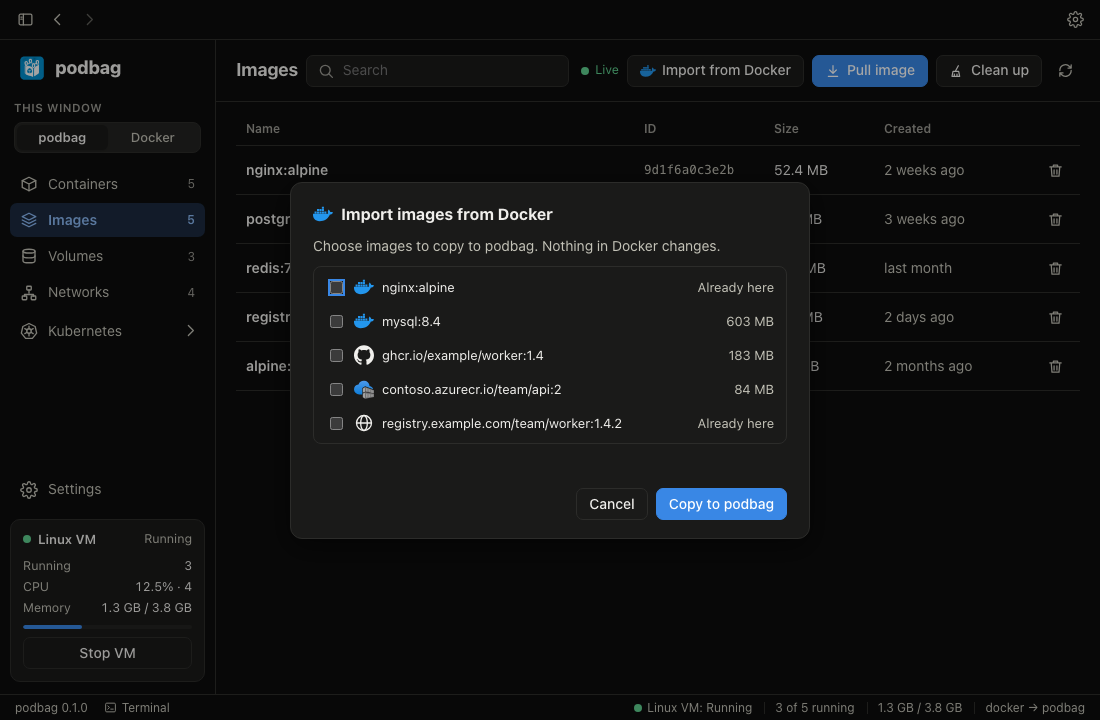
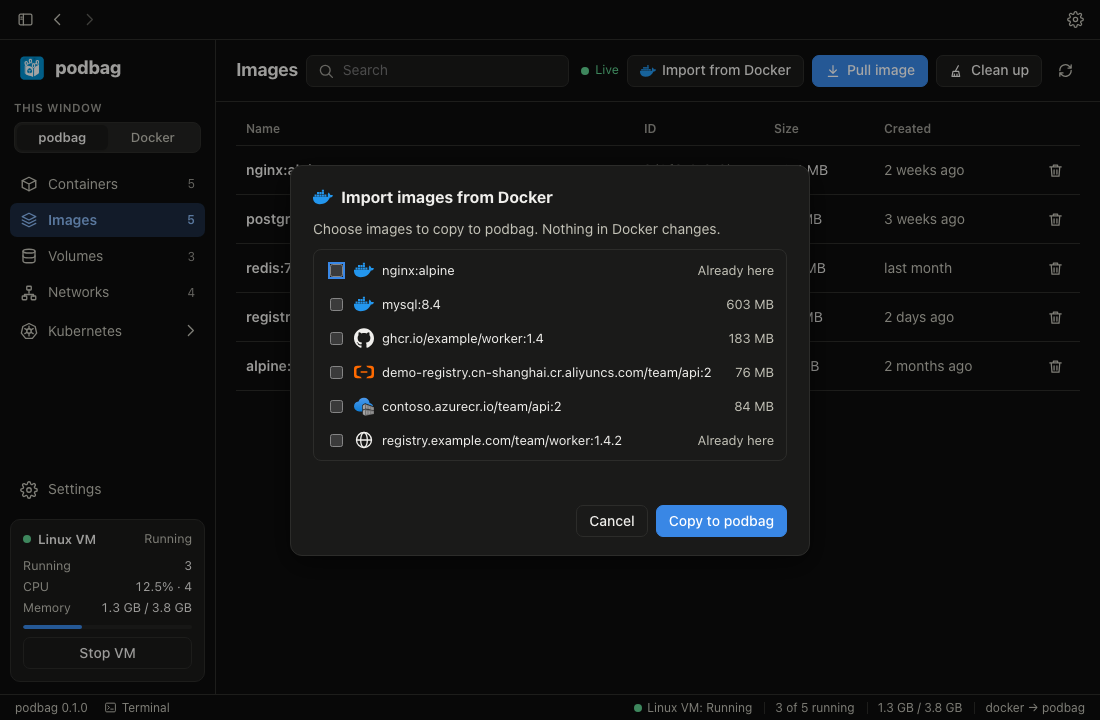
feat: recognize Alibaba ACR endpoints and search aliases

diff --git a/desktop/preview/mock.js b/desktop/preview/mock.js
@@ -122,7 +122,7 @@
     { id: "ocir", label: "Oracle Cloud Infrastructure Registry", host: "", hostExample: "iad.ocir.io", needsHost: true },
     { id: "oracle", label: "Oracle Container Registry", host: "container-registry.oracle.com", hostExample: "container-registry.oracle.com", needsHost: false },
     { id: "ibm", label: "IBM Cloud Container Registry", host: "", hostExample: "us.icr.io", needsHost: true },
-    { id: "alibaba", label: "Alibaba Cloud Container Registry", host: "", hostExample: "registry.cn-hangzhou.aliyuncs.com", needsHost: true },
+    { id: "alibaba", label: "Alibaba Cloud Container Registry", host: "", hostExample: "crpi-example.cn-hangzhou.personal.cr.aliyuncs.com", needsHost: true },
     { id: "tencent", label: "Tencent Container Registry", host: "", hostExample: "example.tencentcloudcr.com", needsHost: true },
     { id: "huawei", label: "Huawei Cloud SWR", host: "", hostExample: "swr.cn-north-4.myhuaweicloud.com", needsHost: true },
     { id: "scaleway", label: "Scaleway Container Registry", host: "", hostExample: "rg.fr-par.scw.cloud", needsHost: true },
@@ -191,6 +191,7 @@
       { name: "nginx:alpine", size: 52_400_000, registry: "dockerhub" },
       { name: "mysql:8.4", size: 603_000_000, registry: "dockerhub" },
       { name: "ghcr.io/example/worker:1.4", size: 183_000_000, registry: "github" },
+      { name: "demo-registry.cn-shanghai.cr.aliyuncs.com/team/api:2", size: 76_000_000, registry: "alibaba" },
       { name: "contoso.azurecr.io/team/api:2", size: 84_000_000, registry: "acr" },
       { name: "registry.example.com/team/worker:1.4.2", size: 183_000_000, registry: "custom" },
     ],
@@ -228,6 +229,13 @@
       confirm: () => app.remove("containers", 0),
       pull: async () => { app.go("images"); await app.pull(); app.searchFor("nginx"); await new Promise((r) => setTimeout(r, 400)); },
       "pull-locations": async () => { app.go("images"); await app.pull(); document.querySelector(".loc-button").click(); },
+      "pull-alibaba": async () => {
+        app.go("images"); await app.pull();
+        document.querySelector(".loc-button").click();
+        const input = document.querySelector(".loc-search");
+        input.value = "Alibaba ACR";
+        input.dispatchEvent(new Event("input"));
+      },
       "pull-login": async () => { app.go("images"); await app.pull(); app.pullState.location = "quay"; app.pullState.step = "login"; app.render(); },
       banner: () => {},
       "settings-docker": () => app.go("settings"),

diff --git a/desktop/ui/images.js b/desktop/ui/images.js
@@ -221,14 +221,19 @@ function closeLocMenu() {
   b.focus();
 }
 
+const registryAliases = {
+  alibaba: "Alibaba ACR Aliyun 알리바바 클라우드 阿里云 阿里雲 アリババクラウド",
+  acr: "Microsoft Azure ACR 애저 에저",
+};
+
 function renderLocMenu() {
   const menu = P.dialog.querySelector(".loc-menu");
   const search = h("input", { type: "search", class: "loc-search", placeholder: t("search.placeholder"),
     "aria-label": t("pull.location"), autocomplete: "off", spellcheck: "false",
     oninput: () => {
-      const query = search.value.trim().toLowerCase();
+      const terms = search.value.trim().toLowerCase().split(/\s+/);
       for (const row of menu.querySelectorAll(".loc-row")) {
-        row.hidden = !row.dataset.search.includes(query) && row.dataset.id !== "custom";
+        row.hidden = !terms.every((term) => row.dataset.search.includes(term)) && row.dataset.id !== "custom";
       }
     },
     onkeydown: (event) => {
@@ -244,9 +249,9 @@ function renderLocMenu() {
     h("ul", {}, P.locations.map((l) => {
       const chosen = l.id === P.location;
       const label = l.needsHost && l.host ? `${l.label} (${l.host})` : l.id === "custom" ? t("pull.myRegistry") : l.label;
-      return h("li", { class: "loc-row", "data-id": l.id, "data-search": [label, l.id, l.host, l.hostExample].join(" ").toLowerCase() },
+      return h("li", { class: "loc-row", "data-id": l.id, "data-search": [label, l.id, l.host, l.hostExample, registryAliases[l.id]].join(" ").toLowerCase() },
         h("button", {
-          type: "button", class: "loc-choice", "aria-pressed": chosen ? "true" : "false",
+          type: "button", class: "loc-choice", title: label, "aria-pressed": chosen ? "true" : "false",
           onclick: () => {
             P.location = l.id;
             P.results = [];
@@ -512,7 +517,7 @@ async function importFromDocker() {
     return h("label", { class: "check import-row" },
       h("input", { type: "checkbox", value: name }),
       registryIcon(registry),
-      h("span", { class: "truncate", text: name }),
+      h("span", { class: "truncate", text: name, title: name }),
       h("span", { class: "secondary-text", text: have.has(name) ? t("import.have") : size(bytes) }));
   });
   const status = h("p", { class: "progress", "aria-live": "polite" });

diff --git a/desktop/ui/style.css b/desktop/ui/style.css
@@ -484,12 +484,12 @@ dialog.pull-panel input.pull-input:focus-visible { outline: none; }
 .loc-button .icon { width: 13px; height: 13px; transform: rotate(90deg); }
 .loc-button:hover { background: var(--hover); }
 .loc-menu {
-  position: absolute; top: 50px; inset-inline-end: 10px; z-index: 2; width: min(330px, calc(100% - 20px));
+  position: absolute; top: 50px; inset-inline-end: 10px; z-index: 2; width: min(400px, calc(100% - 20px));
   max-height: calc(100vh - 140px); overflow-y: auto;
   padding: 6px; border: 1px solid var(--line); border-radius: 10px; background: var(--surface); box-shadow: var(--shadow);
 }
 .loc-filter { position: sticky; top: -6px; z-index: 1; background: var(--surface); padding: 2px 4px 6px; }
-.loc-filter input { width: 100%; }
+.loc-filter input { width: 100%; height: 30px; padding: 0 8px; border: 1px solid var(--line); border-radius: 6px; background: var(--surface); color: var(--ink); font: inherit; }
 .loc-menu ul { list-style: none; margin: 0; padding: 0; display: grid; gap: 1px; }
 .loc-title { margin: 4px 8px 6px; font-size: 11.5px; font-weight: 600; color: var(--muted); }
 .loc-row { display: flex; align-items: center; gap: 6px; }

diff --git a/src/client/registries.rs b/src/client/registries.rs
@@ -574,6 +574,26 @@ mod tests {
     }
 
     #[test]
+    fn alibaba_recognizes_personal_enterprise_and_regional_login_servers() {
+        for host in [
+            "crpi-example.cn-hangzhou.personal.cr.aliyuncs.com",
+            "team-registry.cn-shanghai.cr.aliyuncs.com",
+            "team-registry-vpc.cn-shanghai.cr.aliyuncs.com",
+            "registry.cn-hangzhou.aliyuncs.com",
+            "registry-vpc.cn-hangzhou.aliyuncs.com",
+            "registry-intl.cn-hangzhou.aliyuncs.com",
+            "registry-intl-vpc.cn-hangzhou.aliyuncs.com",
+        ] {
+            let reference = format!("{host}/team/api:2");
+            let loc = Location::of(&reference);
+            assert!(matches!(&loc, Location::Preset(preset, _) if preset.id == "alibaba"));
+            assert_eq!(loc.qualify("team/api:2"), reference);
+        }
+        let other = "registry-intl.cn-hangzhou.aliyuncs.com.example.org";
+        assert_eq!(Location::of(other), Location::Custom(other.into()));
+    }
+
+    #[test]
     fn short_names_are_qualified() {
         assert_eq!(Location::DockerHub.qualify("nginx"), "nginx");
         assert_eq!(Location::DockerHub.qualify("me/app:1"), "me/app:1");

diff --git a/src/client/registry_presets.rs b/src/client/registry_presets.rs
@@ -91,8 +91,14 @@ pub(super) const PRESETS: &[RegistryPreset] = &[
     P::variable(
         "alibaba",
         "Alibaba Cloud Container Registry",
-        "registry.cn-hangzhou.aliyuncs.com",
-        &["registry.*.aliyuncs.com", "*.cr.aliyuncs.com"],
+        "crpi-example.cn-hangzhou.personal.cr.aliyuncs.com",
+        &[
+            "registry.*.aliyuncs.com",
+            "registry-vpc.*.aliyuncs.com",
+            "registry-intl.*.aliyuncs.com",
+            "registry-intl-vpc.*.aliyuncs.com",
+            "*.cr.aliyuncs.com",
+        ],
     ),
     P::variable(
         "tencent",

diff --git a/docs/usage.md b/docs/usage.md
@@ -832,6 +832,9 @@ docker compose build --builder podbag
   NVIDIA NGC, Chainguard and Cloudsmith. Harbor, JFrog Artifactory, Sonatype Nexus and
   GitLab Self-Managed accept your installation's hostname. The Docker import list uses
   that hostname to identify its images.
+- For Alibaba Cloud, search for **Alibaba ACR** or **Aliyun**. Copy the login server
+  from your instance in the Alibaba Cloud console. Personal and Enterprise Edition
+  servers, including regional and VPC endpoints, are recognized in the import list.
 - Log in asks for a user and a password or token. The password goes only to the login
   program's stdin. The app does not keep it or show it. ECR, Google Artifact Registry
   and ACR show their cloud's login command. For ACR, enter the full login server
